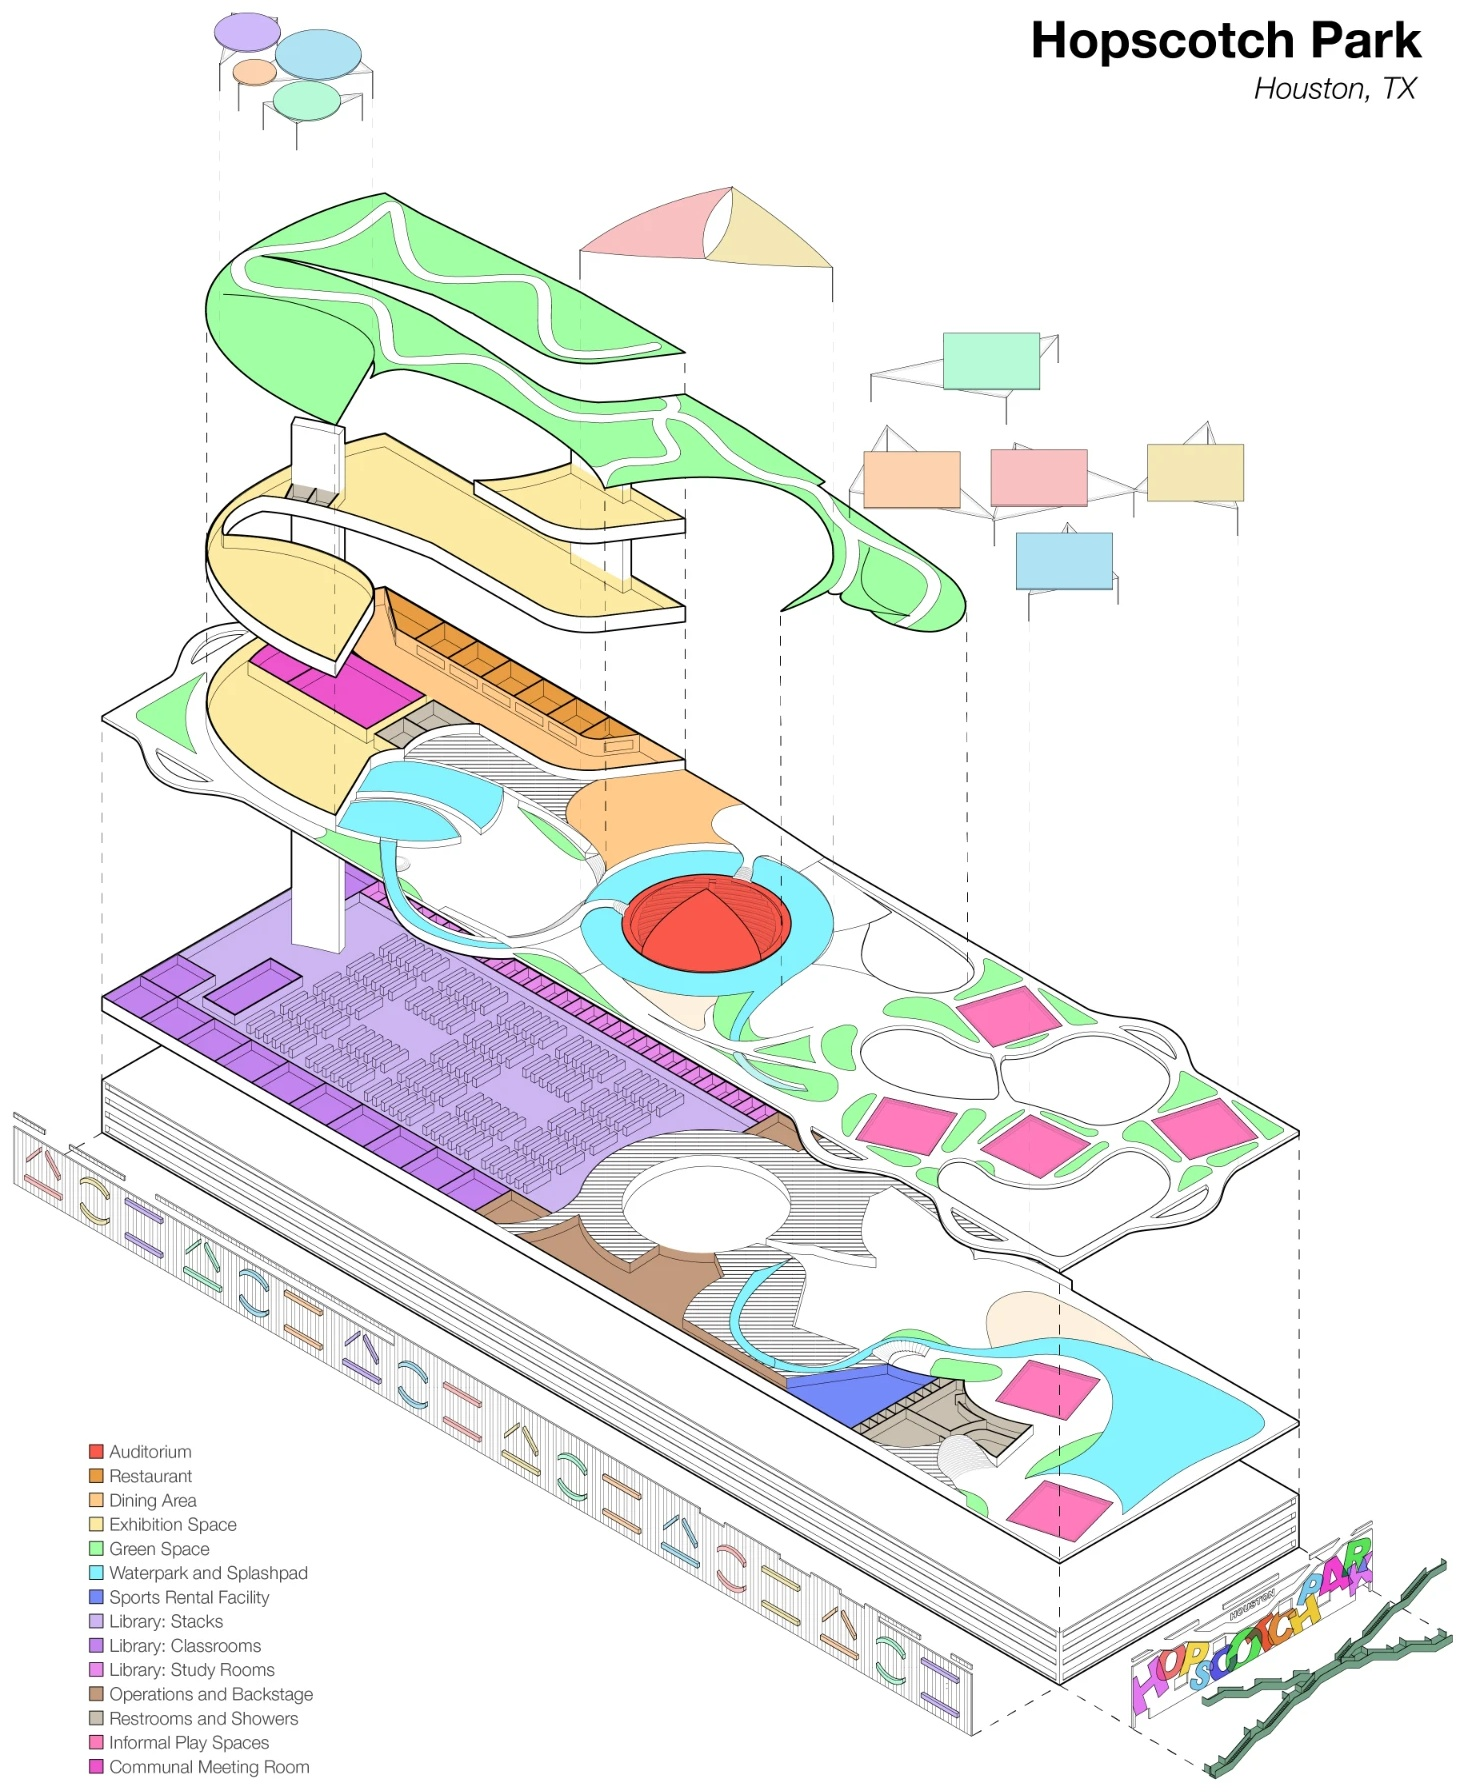
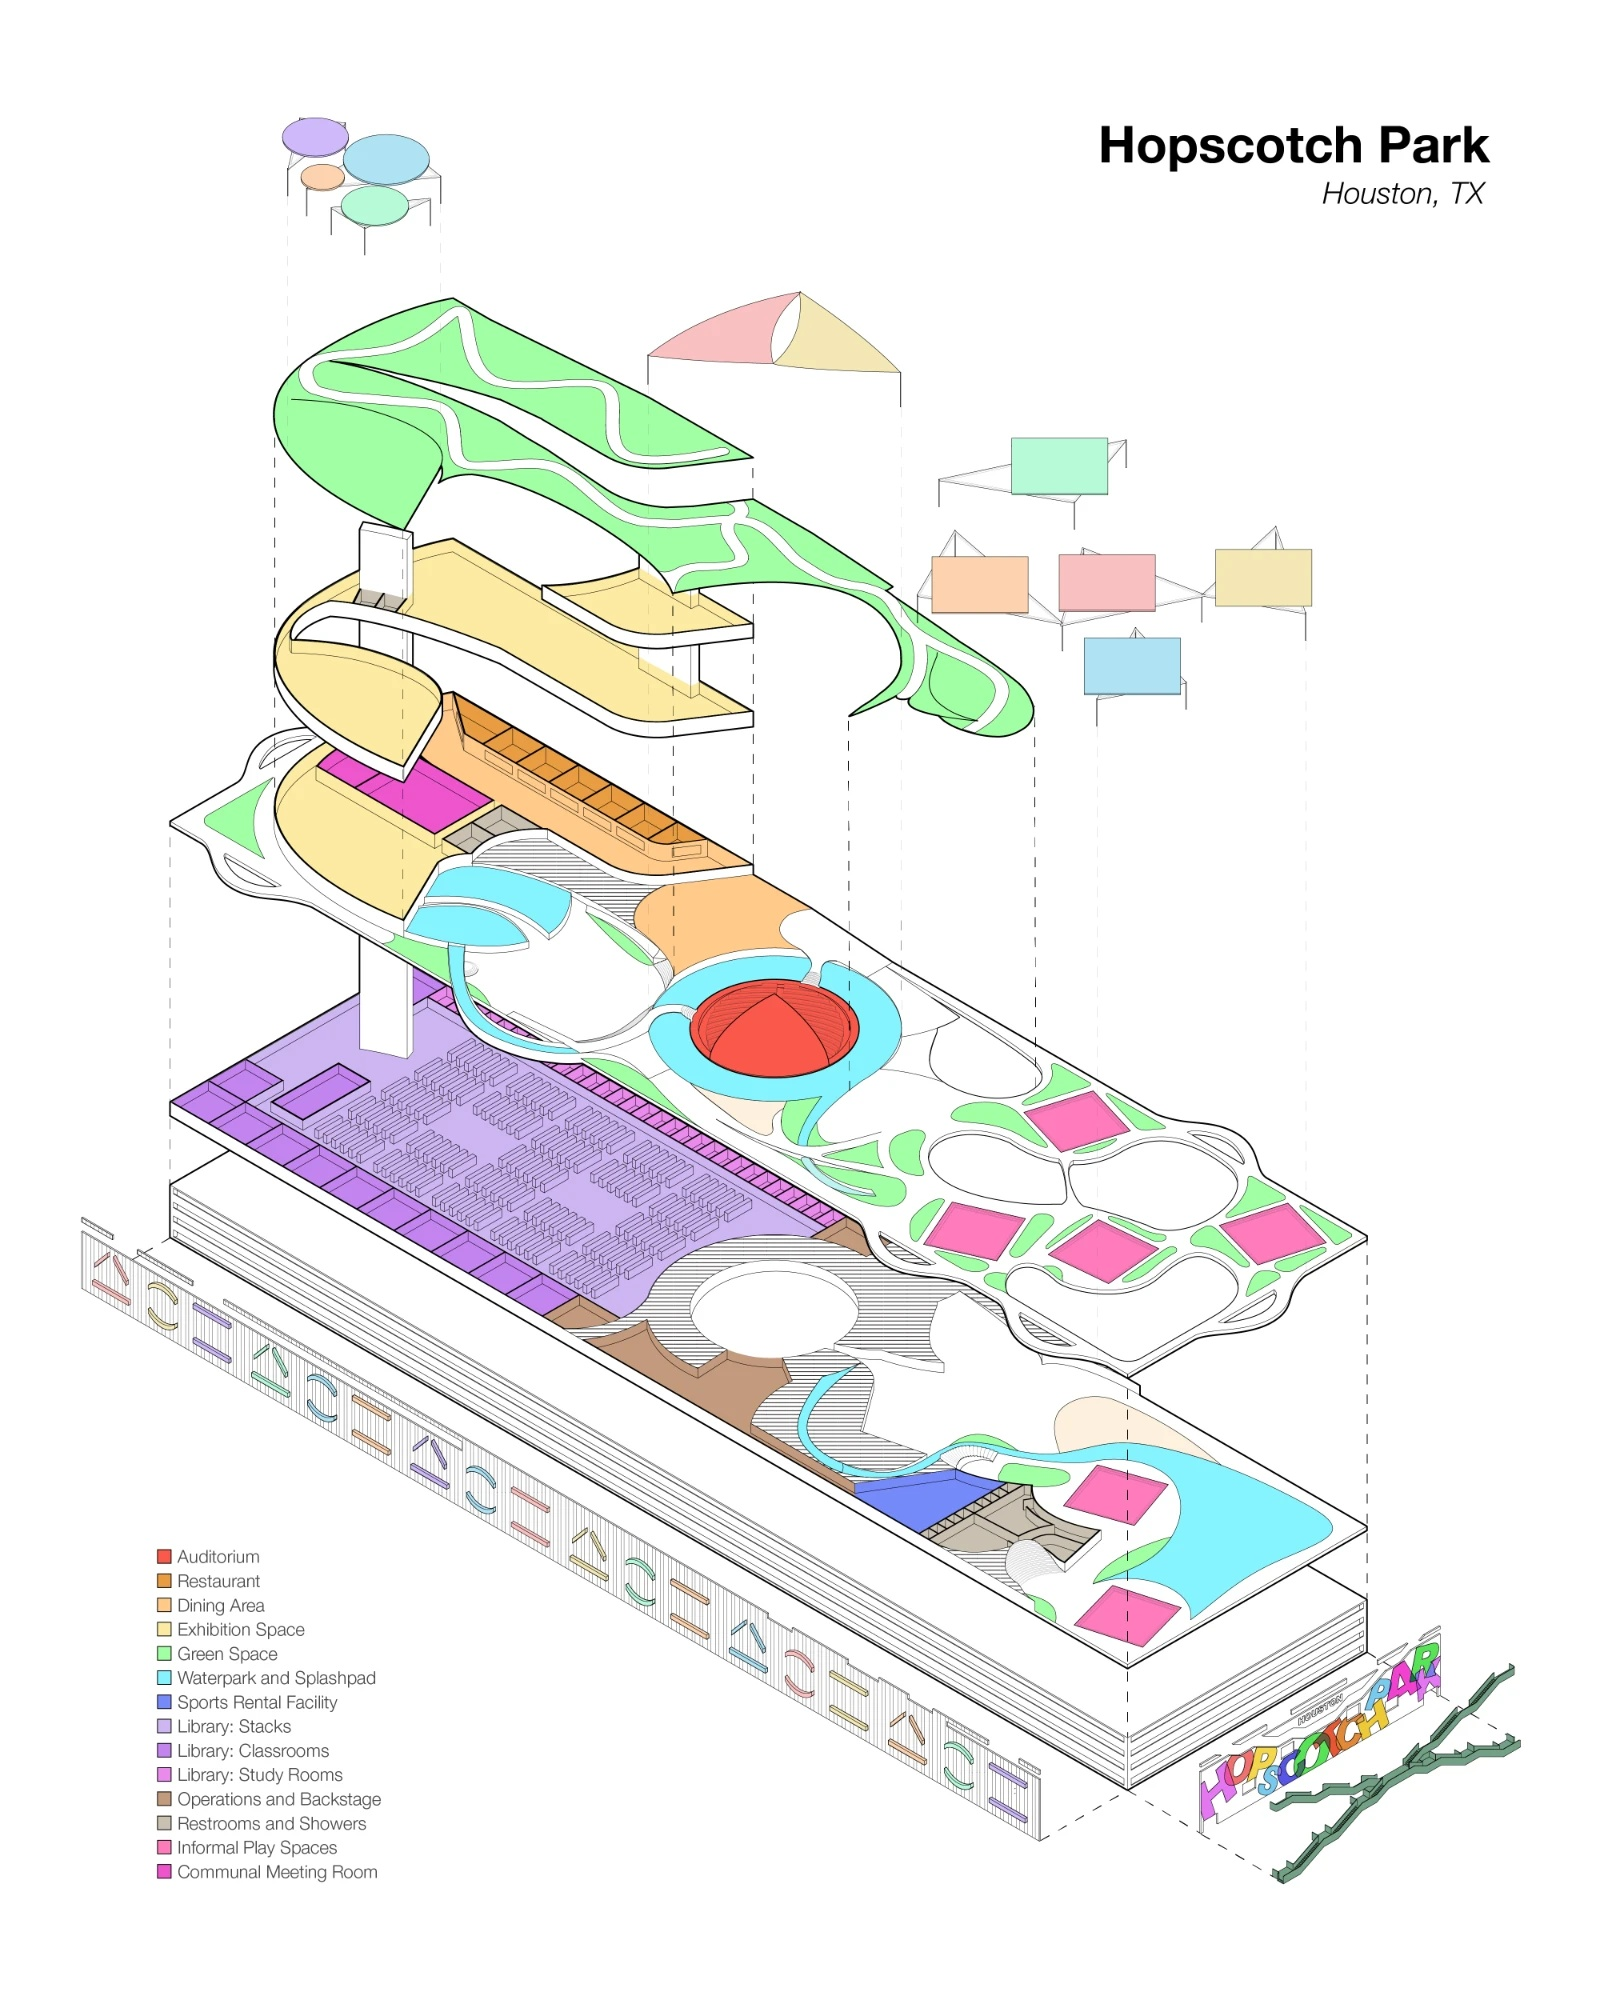
Swap index preview artworks and restore Hopscotch Park margins (#15)
Homepage student-work preview now shows Field of Dreams, Family Line,
and Playground with a cover-fit crop to fill the frame. Hopscotch Park
image re-exported without auto-trim to preserve its original white
margins top and bottom.

Changed region(s): [[0.0, 0.0, 1.0, 1.0], [0.0614, 0.75, 0.2457, 1.0], [0.6758, 0.0, 0.9829, 0.125]]

diff --git a/index.html b/index.html
@@ -211,9 +211,9 @@
       </div>
       <div class="work-grid">
         <div class="work-card">
-          <div class="work-card__thumb"><img src="images/student-work/parasite-1.jpg" alt="Parasite — mixed media sculpture on a map" loading="lazy"></div>
-          <div class="work-card__meta"><h3>Parasite</h3><span class="work-card__tag">Sculpture</span></div>
-          <p class="desc">An exposition on the untamed sprawl of my hometown, exploring urbanity's spread through map, structure, and branching form.</p>
+          <div class="work-card__thumb"><img src="images/student-work/field-of-dreams-1.jpg" alt="Field of Dreams — watercolor and gouache figure lying in a flowing field" loading="lazy"></div>
+          <div class="work-card__meta"><h3>Field of Dreams</h3><span class="work-card__tag">Painting</span></div>
+          <p class="desc">A mixed media piece inspired by Christina's World.</p>
         </div>
         <div class="work-card">
           <div class="work-card__thumb"><img src="images/student-work/family-line-1.jpg" alt="Family Line — watercolor and gouache portrait" loading="lazy"></div>
@@ -221,9 +221,9 @@
           <p class="desc">A mixed media piece inspired by Christina's World.</p>
         </div>
         <div class="work-card">
-          <div class="work-card__thumb"><img src="images/student-work/hopscotch-park-1.jpg" alt="Hopscotch Park — labeled isometric diagram" loading="lazy"></div>
-          <div class="work-card__meta"><h3>Hopscotch Park</h3><span class="work-card__tag">Digital rendering</span></div>
-          <p class="desc">A plan to revitalize an unused urban void into a vibrant community space built around play and stay.</p>
+          <div class="work-card__thumb"><img src="images/student-work/playground-1.jpg" alt="Playground — architectural elevation drawing" loading="lazy"></div>
+          <div class="work-card__meta"><h3>Playground</h3><span class="work-card__tag">Architecture</span></div>
+          <p class="desc">Winding terraces and staircases mimic a playground where physical exploration encourages intellectual and artistic discovery.</p>
         </div>
       </div>
       <div style="margin-top:40px;">

diff --git a/css/styles.css b/css/styles.css
@@ -608,7 +608,7 @@ textarea.input { min-height: 90px; resize: vertical; }
   position: relative; overflow: hidden;
   font-size: 12px; color: var(--color-text-muted); margin-bottom: var(--space-2);
 }
-.work-card__thumb img { width: 100%; height: 100%; object-fit: contain; }
+.work-card__thumb img { width: 100%; height: 100%; object-fit: cover; }
 
 .work-card__slide {
   display: none; max-width: 100%; max-height: 80vh; width: auto; height: auto;
